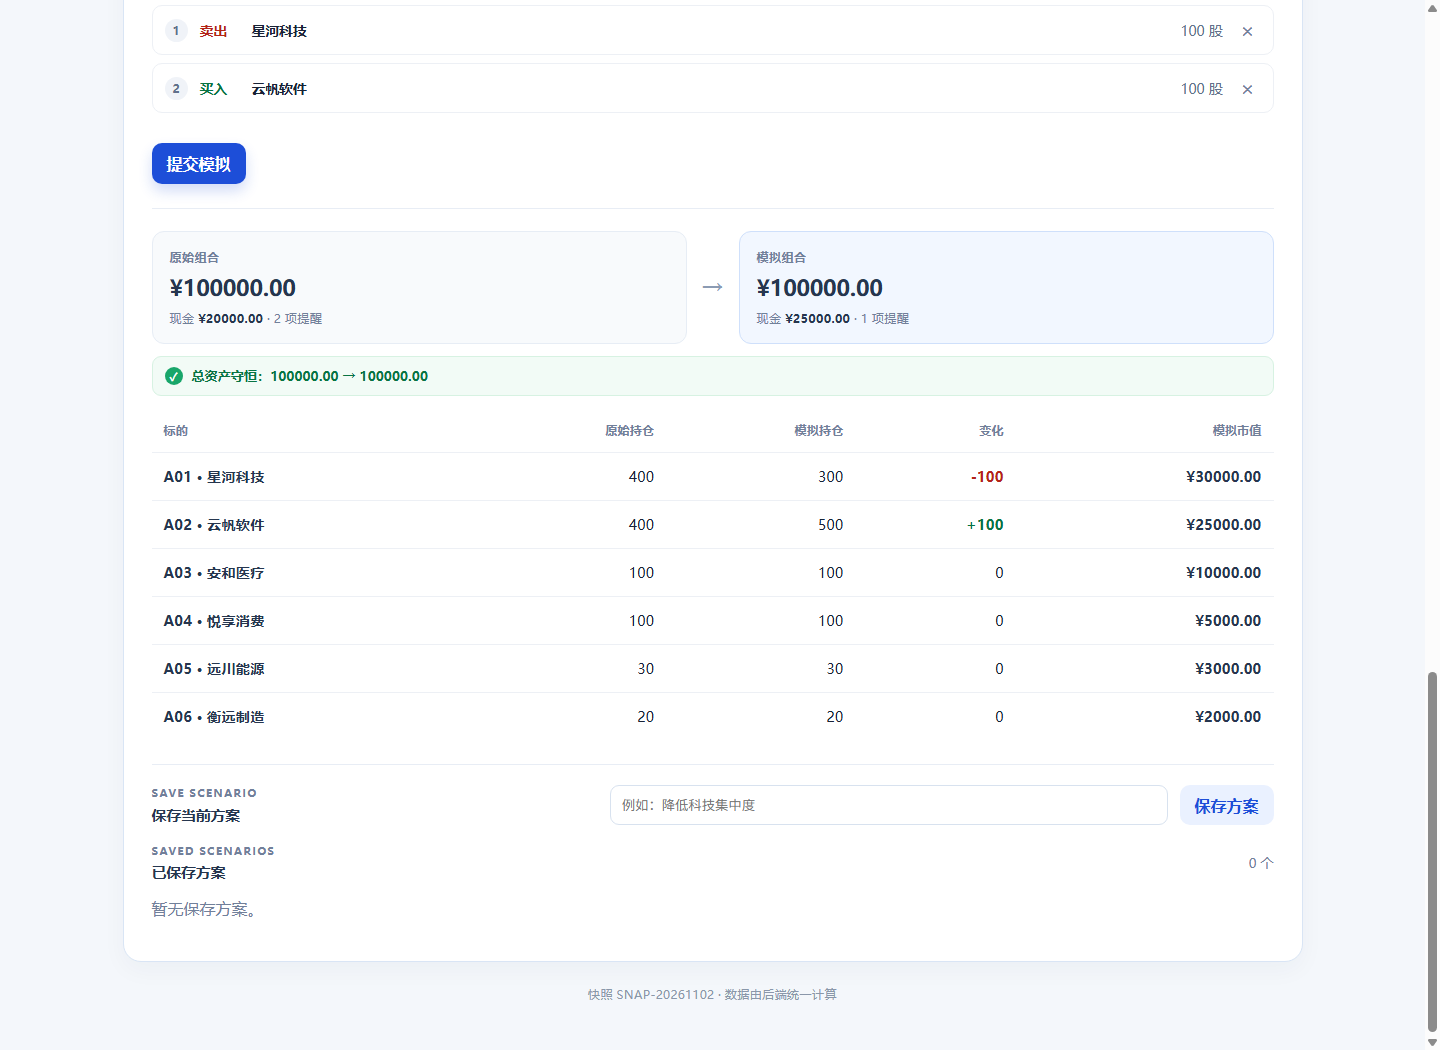
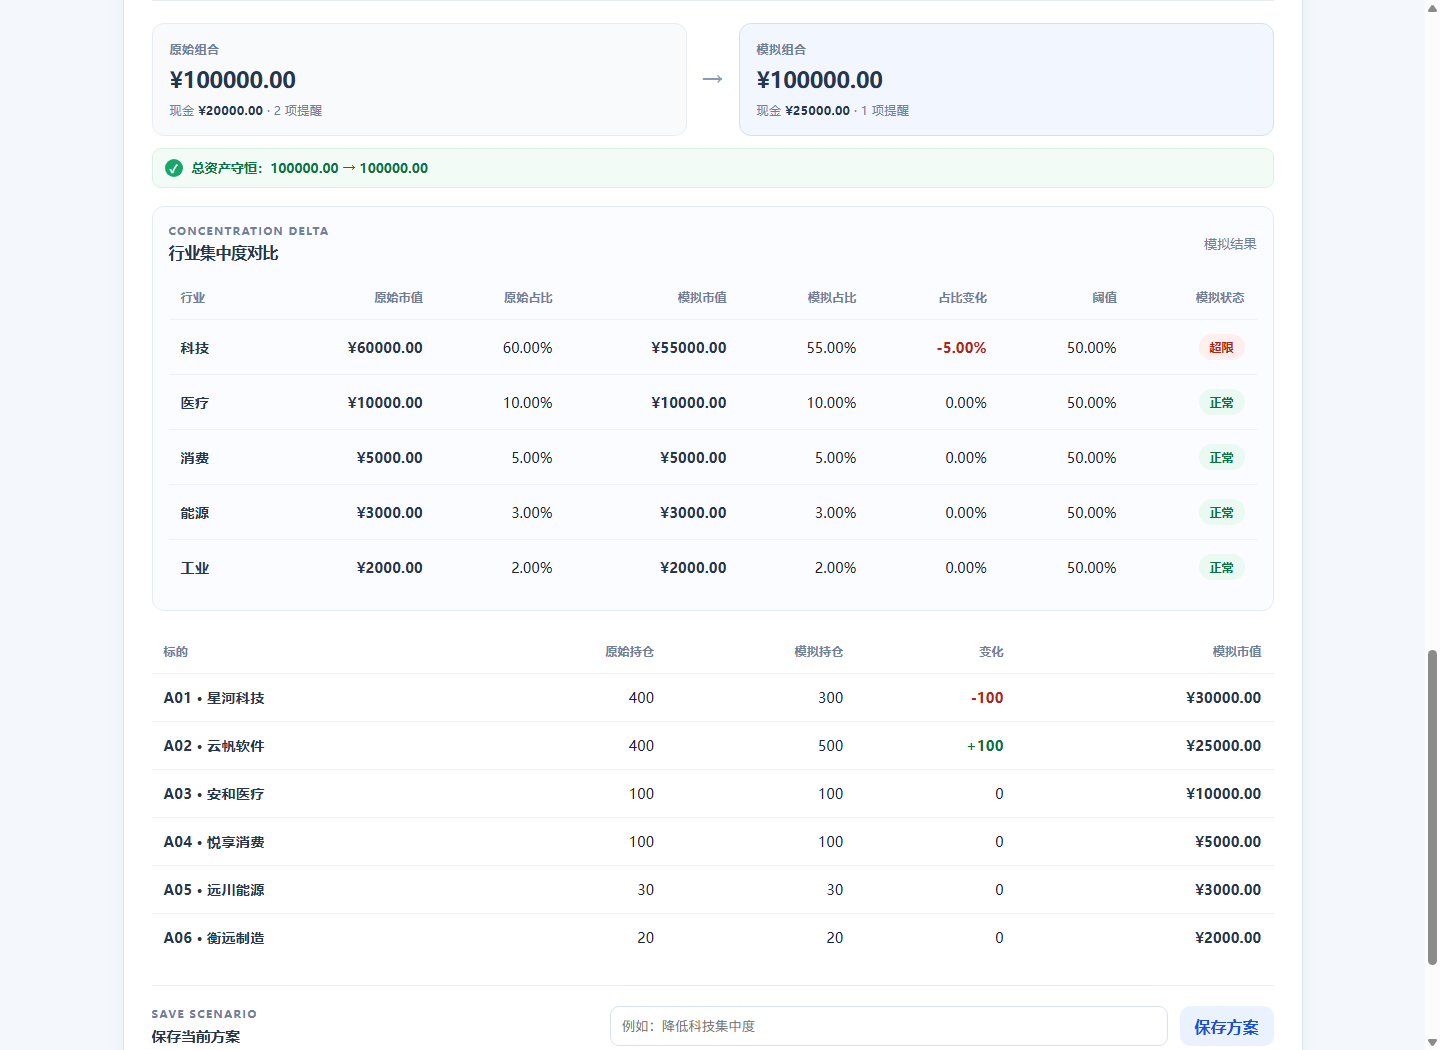
feat: complete simulated concentration comparison

diff --git a/apps/web/src/App.tsx b/apps/web/src/App.tsx
@@ -7,6 +7,7 @@ import {
   saveScenario,
   type IndustryAnalysis,
   type InstrumentAnalysis,
+  type PortfolioAnalysis,
   type PortfolioOverview,
   type ScenarioListItem,
   type SimulationResult,
@@ -118,6 +119,48 @@ function formatSigned(value: number): string {
   return value > 0 ? `+${value}` : String(value);
 }
 
+function formatPercentChange(original: string, simulated: string): string {
+  const change = Number(simulated) - Number(original);
+  return `${change > 0 ? '+' : ''}${change.toFixed(2)}%`;
+}
+
+function ConcentrationComparison({ original, simulated }: { original: PortfolioAnalysis; simulated: PortfolioAnalysis }) {
+  const originalByIndustry = useMemo(() => new Map(original.industries.map((item) => [item.industry, item])), [original]);
+
+  return (
+    <section className="concentration-comparison" aria-labelledby="simulation-concentration-title">
+      <div className="comparison-section-heading">
+        <div><p className="eyebrow">CONCENTRATION DELTA</p><h3 id="simulation-concentration-title">行业集中度对比</h3></div>
+        <span className="panel-meta">模拟结果</span>
+      </div>
+      <div className="table-wrap">
+        <table className="concentration-table">
+          <thead><tr><th>行业</th><th>原始市值</th><th>原始占比</th><th>模拟市值</th><th>模拟占比</th><th>占比变化</th><th>阈值</th><th>模拟状态</th></tr></thead>
+          <tbody>
+            {simulated.industries.map((industry) => {
+              const originalIndustry = originalByIndustry.get(industry.industry);
+              const originalRatio = originalIndustry?.ratioPercent ?? '0.00';
+              const change = Number(industry.ratioPercent) - Number(originalRatio);
+              return (
+                <tr key={industry.industry}>
+                  <td className="primary-cell">{industry.industry}</td>
+                  <td><Money value={originalIndustry?.marketValue ?? '0.00'} /></td>
+                  <td>{originalRatio}%</td>
+                  <td><Money value={industry.marketValue} /></td>
+                  <td>{industry.ratioPercent}%</td>
+                  <td className={change === 0 ? '' : change > 0 ? 'delta-positive' : 'delta-negative'}>{formatPercentChange(originalRatio, industry.ratioPercent)}</td>
+                  <td>{industry.thresholdPercent}%</td>
+                  <td><AlertBadge active={industry.isOverThreshold} /></td>
+                </tr>
+              );
+            })}
+          </tbody>
+        </table>
+      </div>
+    </section>
+  );
+}
+
 function SimulationComparison({ result }: { result: SimulationResult }) {
   const originalBySymbol = useMemo(() => new Map(result.original.instruments.map((item) => [item.symbol, item])), [result.original]);
 
@@ -137,6 +180,7 @@ function SimulationComparison({ result }: { result: SimulationResult }) {
         </div>
       </div>
       <div className="invariant-note"><span aria-hidden="true">✓</span> 总资产守恒：{result.invariant.originalTotalAsset} → {result.invariant.simulatedTotalAsset}</div>
+      <ConcentrationComparison original={result.original} simulated={result.simulated} />
       <div className="table-wrap comparison-table-wrap">
         <table>
           <thead><tr><th>标的</th><th>原始持仓</th><th>模拟持仓</th><th>变化</th><th>模拟市值</th></tr></thead>
@@ -186,8 +230,16 @@ function RebalanceWorkspace({ portfolio }: { portfolio: PortfolioOverview }) {
       return;
     }
     setOperations((current) => [...current, { side, symbol, quantity: parsedQuantity }]);
+    setSimulation(null);
     setQuantity('');
     setFormError(null);
+    setSimulationError(null);
+    setSaveMessage(null);
+  };
+
+  const removeOperation = (operationIndex: number) => {
+    setOperations((current) => current.filter((_, index) => index !== operationIndex));
+    setSimulation(null);
     setSimulationError(null);
     setSaveMessage(null);
   };
@@ -267,7 +319,7 @@ function RebalanceWorkspace({ portfolio }: { portfolio: PortfolioOverview }) {
         <div className="operation-list-heading"><strong>待模拟操作</strong><span>{operations.length} 笔</span></div>
         {operations.length > 0 ? operations.map((operation, index) => {
           const instrument = portfolio.instruments.find((item) => item.symbol === operation.symbol);
-          return <div className="operation-row" key={`${operation.symbol}-${index}`}><span className="operation-order">{index + 1}</span><span className={operation.side === 'buy' ? 'side-buy' : 'side-sell'}>{operation.side === 'buy' ? '买入' : '卖出'}</span><strong>{instrument?.name ?? operation.symbol}</strong><span>{operation.quantity} 股</span><button type="button" className="icon-button" onClick={() => setOperations((current) => current.filter((_, itemIndex) => itemIndex !== index))} aria-label={`删除第 ${index + 1} 笔操作`}>×</button></div>;
+          return <div className="operation-row" key={`${operation.symbol}-${index}`}><span className="operation-order">{index + 1}</span><span className={operation.side === 'buy' ? 'side-buy' : 'side-sell'}>{operation.side === 'buy' ? '买入' : '卖出'}</span><strong>{instrument?.name ?? operation.symbol}</strong><span>{operation.quantity} 股</span><button type="button" className="icon-button" onClick={() => removeOperation(index)} aria-label={`删除第 ${index + 1} 笔操作`}>×</button></div>;
         }) : <p className="empty-copy">添加操作后，模拟结果会显示在这里。</p>}
       </div>
 

diff --git a/apps/web/src/index.css b/apps/web/src/index.css
@@ -638,6 +638,36 @@ tbody tr:last-child td {
   font-size: 0.7rem;
 }
 
+.concentration-comparison {
+  margin: 18px 0;
+  padding: 16px;
+  background: #fbfcff;
+  border: 1px solid #e3ebf8;
+  border-radius: 12px;
+}
+
+.comparison-section-heading {
+  display: flex;
+  align-items: center;
+  justify-content: space-between;
+  gap: 16px;
+  margin-bottom: 12px;
+}
+
+.comparison-section-heading h3 {
+  margin: 0;
+  color: #26364f;
+  font-size: 0.98rem;
+}
+
+.comparison-section-heading .eyebrow {
+  margin-bottom: 4px;
+}
+
+.concentration-table {
+  min-width: 980px;
+}
+
 .comparison-table-wrap table {
   min-width: 600px;
 }

diff --git a/DESIGN.md b/DESIGN.md
@@ -445,6 +445,12 @@ AI 生成代码必须经过单元测试、手工复算 AC-01～AC-03、实际浏
 - 实际核验结果：初始页面显示总资产 `100000.00`、现金 `20000.00` 和 2 项告警；模拟后现金为 `25000.00`、科技行业为 `55.00%`、总资产守恒；保存后列表有 1 个方案，重开后仍有 2 笔操作且守恒提示保持不变。浏览器验证结束后恢复了默认 `apps/server/data/scenarios.json` 的空数组。
 - 采用依据与修改：保留后端唯一计算口径和本地 JSON 仓储；将自动化验收作为 AC 证据，将截图和命令输出作为交付证据；未把浏览器临时方案或未实现的 CI、部署、编辑删除功能写成已完成项。
 
+### 9.11 模拟行业集中度对比补充
+
+- 提供的上下文与完成标准：根据评审指出的 FR-03 页面缺口，要求模拟结果展示原始/模拟行业市值、占比、变化、阈值和状态，并避免操作列表变化后继续使用旧模拟结果。
+- AI 实际产出：新增 `ConcentrationComparison` 展示组件和对应样式；行业告警状态继续直接使用后端返回的 `isOverThreshold`，占比变化只作为展示字段；新增、删除操作后清空 `simulation`，要求重新提交后才能保存。
+- 实际核验结果：AC-03 浏览器验证显示科技行业 `60000.00 → 55000.00`、`60.00% → 55.00%`、变化 `-5.00%`、阈值 `50.00%`、状态“超限”；总资产守恒提示为 `100000.00 → 100000.00`。新增第三笔操作后，对比区清空且保存按钮禁用；全量测试和生产构建通过。
+
 ## 10. 完成情况与复盘
 
 - 实际投入时间：没有使用独立计时器；根据本地文件时间和交互记录估算，项目总投入约 3 小时，步骤 15～18 收尾约 35 分钟，均为约数而非精确计时。

diff --git a/VERIFY.md b/VERIFY.md
@@ -40,7 +40,7 @@ npm.cmd run build
 1. 验证初始页面显示“投资组合分析”、总资产 `¥100000.00` 和“2 项超限”，其中包括星河科技 40% 与科技行业 60%。
 2. 添加“卖出 A01 100 股”和“买入 A02 100 股”，点击“提交模拟”。
 3. 验证对比区显示原始/模拟组合均为 `¥100000.00`，现金变为 `¥25000.00`，并显示“总资产守恒：100000.00 → 100000.00”。
-4. 验证 A01 变化为 `-100`、A02 变化为 `+100`，模拟组合剩余 1 项提醒。
+4. 验证 A01 变化为 `-100`、A02 变化为 `+100`，模拟组合剩余 1 项提醒；行业集中度对比表显示科技行业从 `60.00%` 变为 `55.00%`，变化 `-5.00%`，阈值 `50.00%`，状态为“超限”。
 5. 保存方案“降低科技集中度验收”，验证列表出现 1 个方案；点击“重新打开”，验证提示和两笔操作仍在，守恒提示仍存在。
 
 浏览器验证使用本地 Chrome DevTools Protocol 执行页面操作，未访问外部网站。验证后将演示产生的临时方案恢复为 `apps/server/data/scenarios.json` 中的 `[]`，保持仓库初始状态。
@@ -48,7 +48,7 @@ npm.cmd run build
 ## 4. 关键截图
 
 - [初始组合概览](docs/screenshots/overview.png)：总资产、现金、集中度提醒和持仓明细。
-- [调仓结果对比](docs/screenshots/simulation-comparison.png)：两笔操作、模拟结果、持仓变化及守恒提示。
+- [调仓结果对比](docs/screenshots/simulation-comparison.png)：两笔操作、行业集中度变化、模拟结果、持仓变化及守恒提示。
 - [方案重新打开](docs/screenshots/scenario-reopened.png)：重开提示、方案列表和相同的模拟结果。
 
 ## 5. 文档一致性检查
